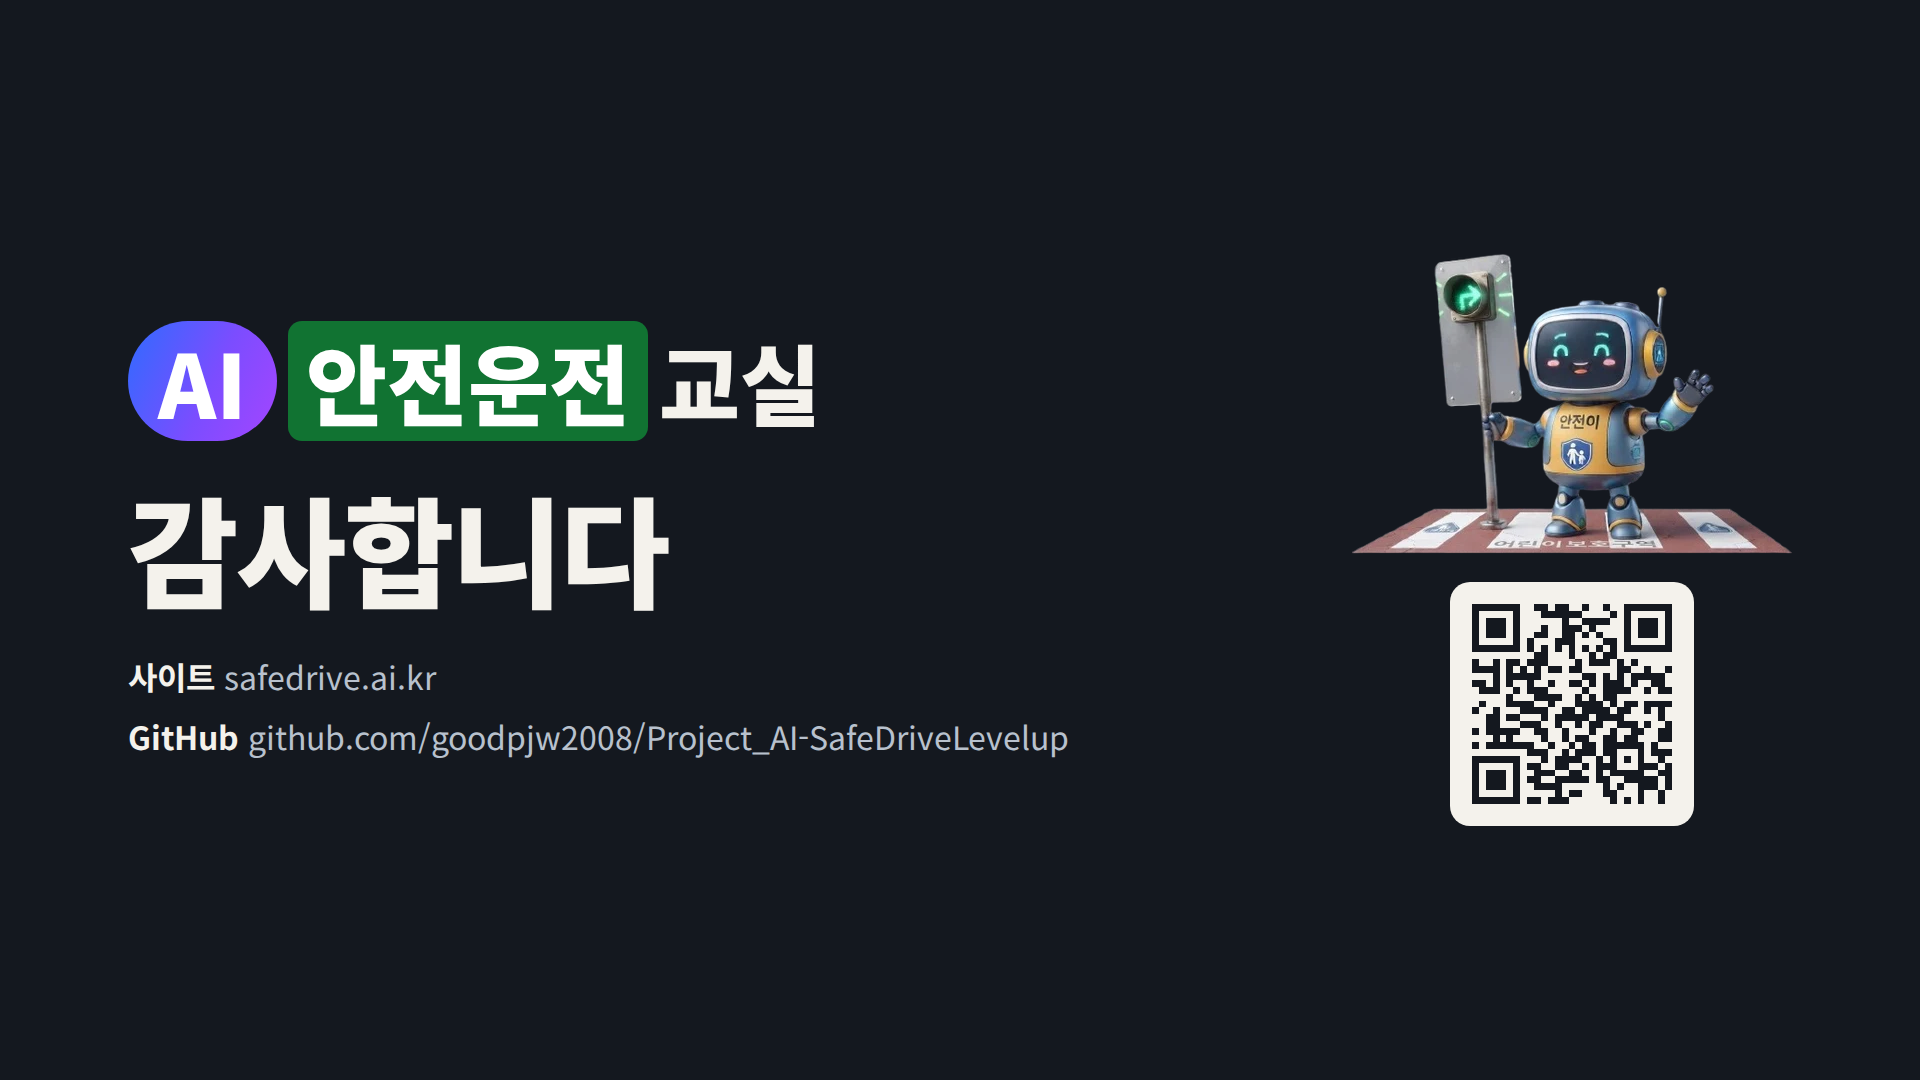
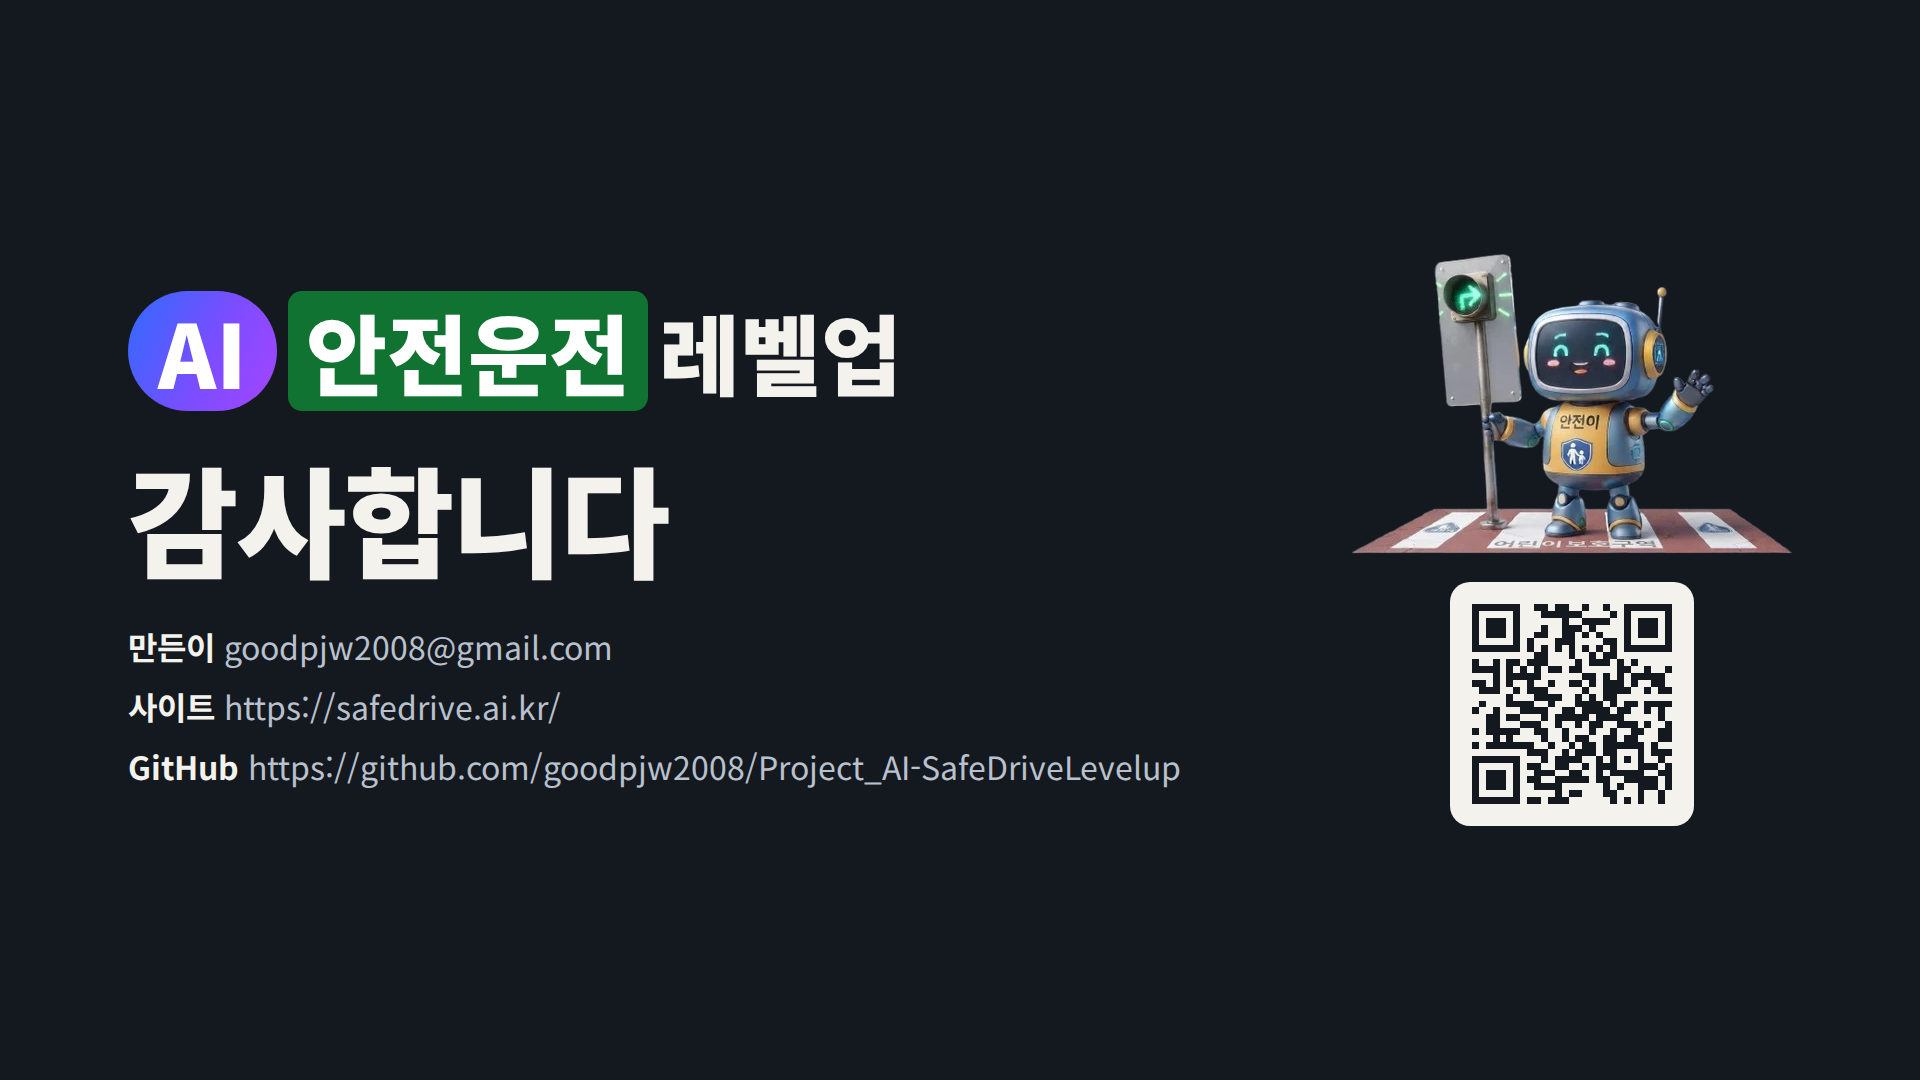
포트폴리오에서 만든 사람 장표를 빼고 마지막 장에 연락처를 적는다
장표가 22장에서 21장이 되었다. 쪽수와 목록은 장표 칸을 읽어 만들기에
저절로 맞춰지고, 그 장에만 쓰던 글 장표용 CSS 도 지웠다.

마지막 장표에는 만든이 goodpjw2008@gmail.com 과 사이트, GitHub 주소를
온전히 적었다. 이 장표의 제목이 아직 'AI 안전운전 교실' 이던 것도 고쳤다.
README 의 넘어가는 장표도 21칸으로 다시 만들고 판 번호를 맞췄다.

Changed region(s): [[0.0625, 0.2444, 0.625, 0.7333]]

diff --git a/AI_safelevelup_portfolio.html b/AI_safelevelup_portfolio.html
@@ -190,31 +190,6 @@
   .cap { font-size: 13px; line-height: 1.4; color: var(--muted); }
   .cap b { margin-right: 6px; color: var(--text); font-variant-numeric: tabular-nums; }
 
-  /*
-    ── 글로 된 장표 (만든 사람) ──
-    그림 장표와 같은 1920×1080 판에 같은 모양으로 짠다. 크기는 모두 `판 픽셀 × --u` 로 적는다 —
-    --u 는 장표 너비의 1/1920 이라, 틀이 얼마나 작아지든 그림 장표와 같은 비율로 줄어든다.
-    글로 둔 까닭: 라이선스 파일 링크를 누를 수 있어야 한다.
-  */
-  .doc { --u: calc(100cqw / 1920); background: #F4F2EC; color: #171C23; }
-  .doc-in {
-    position: absolute; inset: 0; display: flex; flex-direction: column; gap: calc(40 * var(--u));
-    padding: calc(112 * var(--u)) calc(128 * var(--u)) calc(128 * var(--u));
-  }
-  .doc-head { display: flex; flex-direction: column; gap: calc(12 * var(--u)); }
-  .doc .kicker { margin: 0; font-size: calc(24 * var(--u)); font-weight: 700; letter-spacing: calc(2 * var(--u)); color: #5B45E0; }
-  .doc h2 { margin: 0; font-size: calc(64 * var(--u)); font-weight: 900; line-height: 1.15; letter-spacing: calc(-1 * var(--u)); }
-  .doc-body { flex: 1; min-height: 0; display: flex; gap: calc(56 * var(--u)); }
-  .doc-left { width: calc(760 * var(--u)); display: flex; flex-direction: column; gap: calc(28 * var(--u)); }
-  .shot { padding: calc(20 * var(--u)); border-radius: calc(24 * var(--u)); background: #1C222B; }
-  .shot img { display: block; width: 100%; height: auto; }
-  .doc p.note { margin: 0; font-size: calc(24 * var(--u)); line-height: 1.55; color: #4B5461; }
-  .doc-right { flex: 1; display: flex; flex-direction: column; gap: calc(20 * var(--u)); }
-  .doc .copy { margin: 0; font-size: calc(28 * var(--u)); font-weight: 900; }
-  .doc table { width: 100%; border-collapse: collapse; font-size: calc(24 * var(--u)); line-height: 1.45; }
-  .doc th, .doc td { padding: calc(14 * var(--u)) calc(18 * var(--u)); border: 1px solid #D6D1C5; text-align: left; vertical-align: top; }
-  .doc th { background: #E9E5DA; font-weight: 700; }
-  .doc a { color: #5B45E0; font-weight: 700; }
 </style>
 </head>
 <body>
@@ -315,34 +290,9 @@
       <img src="docs/slides/24-effect.png" alt="기대효과" loading="lazy" decoding="async">
     </section>
 
-    <section class="slide doc" data-chapter="마무리" data-title="만든 사람">
-      <div class="doc-in">
-        <div class="doc-head">
-          <p class="kicker">About</p>
-          <h2>만든 사람</h2>
-        </div>
-        <div class="doc-body">
-          <div class="doc-left">
-            <div class="shot"><img src="screenshot/09_about.png" alt="About 화면 — 만든 사람 goodpjw2008, 비영리 목적으로만 사용합니다" loading="lazy" decoding="async"></div>
-            <p class="note">다만 3D 자동차 모델 중 4종(아반떼 N · M8 · M5 · SL63)이 비영리(NC) 조건이라, 이 모델이 들어 있는 배포 사이트는 비영리로만 운영합니다. 모델별 출처와 수정 사항은 <a href="https://github.com/goodpjw2008/Project_AI-SafeDriveLevelup/blob/main/THIRD_PARTY_NOTICES.md" target="_blank" rel="noopener">THIRD_PARTY_NOTICES.md</a>를 참고하시기 바랍니다.</p>
-          </div>
-          <div class="doc-right">
-            <p class="copy">© 2026 goodpjw2008 · 모든 권리 보유</p>
-            <p class="note" style="margin:0 0 14px"><b>사용을 원하시는 분은 이메일로 요청해 주세요. 대부분 흔쾌히 허락해 드립니다.</b> 무분별한 사용을 예방하려는 것이니 이해 부탁드립니다. 읽어 보시는 것과 서비스 주소에서 직접 연습해 보시는 것은 자유이고, 자세한 조건은 LICENSE 에 있습니다.</p>
-            <table>
-              <tr><th>자산</th><th>라이선스</th></tr>
-              <tr><td><b>직접 만든 것 전부</b> — 코드 · 그림 · 글</td><td><a href="https://github.com/goodpjw2008/Project_AI-SafeDriveLevelup/blob/main/LICENSE" target="_blank" rel="noopener">모든 권리 보유 — 사용 시 허락</a></td></tr>
-              <tr><td>3D 자동차 모델 9종 · 전시관 차 사진</td><td>원작자 라이선스 — CC BY 4.0 · CC BY-NC 4.0 · CC BY-NC-SA 4.0</td></tr>
-              <tr><td>효과음 · 환경광(HDRI)</td><td>CC0 1.0</td></tr>
-              <tr><td>글꼴 Pretendard · 아이콘 Lucide · three.js</td><td>SIL OFL 1.1 · ISC · MIT</td></tr>
-            </table>
-          </div>
-        </div>
-      </div>
-    </section>
 
     <section class="slide" data-chapter="마무리" data-title="감사합니다">
-      <img src="docs/slides/25-closing.png" alt="감사합니다 — 사이트 safedrive.ai.kr, GitHub github.com/goodpjw2008/Project_AI-SafeDriveLevelup" loading="lazy" decoding="async">
+      <img src="docs/slides/25-closing.png" alt="감사합니다 — 만든이 goodpjw2008@gmail.com, 사이트 https://safedrive.ai.kr/, GitHub https://github.com/goodpjw2008/Project_AI-SafeDriveLevelup" loading="lazy" decoding="async">
     </section>
   </div>
 

diff --git a/CHANGELOG.md b/CHANGELOG.md
@@ -68,6 +68,13 @@
 
 ### 변경
 
+- **포트폴리오에서 '만든 사람' 장표를 뺐습니다** (사용자가 정했습니다). 장표가 **22장 → 21장**이 되었고, 넘겨 보기 페이지의 쪽수 · 목록 · 장 이동은 장표 칸을 그대로 읽어 만들기 때문에 저절로 맞춰집니다. 그 장에만 쓰던 글 장표용 CSS 도 함께 지웠습니다. 라이선스 내용은 [LICENSE](LICENSE) 와 [THIRD_PARTY_NOTICES.md](THIRD_PARTY_NOTICES.md) 에 그대로 있습니다.
+  - 그 장에서만 쓰던 `screenshot/09_about.png` 는 저장소에 그대로 두었습니다 — 배포본은 페이지가 부르는 그림만 실어 나르므로 이제 올라가지 않습니다.
+
+- **마지막 장표(감사합니다)에 만든이를 적고, 주소를 온전히 적었습니다** (사용자가 정했습니다) — 만든이 `goodpjw2008@gmail.com` · 사이트 `https://safedrive.ai.kr/` · GitHub `https://github.com/goodpjw2008/Project_AI-SafeDriveLevelup`.
+  - 이 장표에 **옛 이름이 남아 있던 것도 함께 고쳤습니다** — 제목이 `AI 안전운전 교실` 이었습니다.
+  - README 의 저절로 넘어가는 장표도 21칸으로 다시 만들고, 판 번호를 `NN / 22` 에서 `NN / 21` 로 맞췄습니다.
+
 - **서비스 주소가 직접 산 도메인으로 바뀌었습니다 — `safedrive.ai.kr`.** README · LICENSE · THIRD_PARTY_NOTICES · 포트폴리오 넘겨 보기 페이지 · 장표 그림(표지 · 들어가며 · 온라인 활용 · 마무리)의 주소를 모두 바꿨고, **마무리 장표의 QR 코드도 새 주소로 다시 만들었습니다.**
   - 지금까지 쓰던 `safelevelup.vercel.app` 도 그대로 열립니다 — 이미 건네 둔 링크가 끊기지 않습니다.
 
